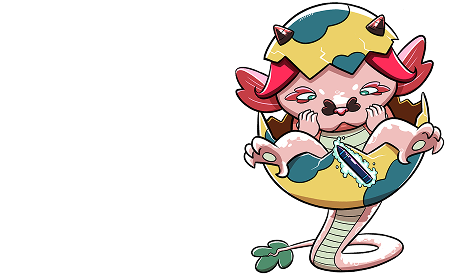
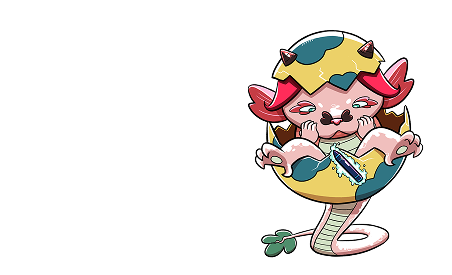
feat: update terminology from "points" to "Star" across multiple components for consistency

Changed region(s): [[0.4956, 0.0, 0.9912, 1.0]]

diff --git a/app/tien-tri-tai-ba/components/community-prize.tsx b/app/tien-tri-tai-ba/components/community-prize.tsx
@@ -9,16 +9,15 @@ import Kado from '@/assets/teams/kado.png'
 import Milyhaisan from '@/assets/teams/milyhaisan.png'
 import Sixpieces from '@/assets/teams/sixpieces.png'
 import Taomong from '@/assets/teams/taomong.png'
-import Todoiloinguocdong from '@/assets/teams/todoiloinguocdong.png'
+import { useSignInDialog } from '@/components/signin-dialog'
 import { Dialog, DialogContent, DialogFooter, DialogHeader, DialogTitle } from '@/components/ui/dialog'
 import { Input } from '@/components/ui/input'
+import { useLoggedIn } from '@/hooks/useLoggedIn'
 import { getTeamPoints, giveTeamPoints } from '@/services/tttb'
 import Image from 'next/image'
 import { useEffect, useState } from 'react'
 import { toast } from 'sonner'
 import ModalBorder from './modal-border'
-import { useLoggedIn } from '@/hooks/useLoggedIn'
-import { useSignInDialog } from '@/components/signin-dialog'
 const teams = [
   {
     id: 'milyhaisan',
@@ -92,16 +91,16 @@ const teams = [
     points: 0,
     avatar: Aids,
   },
-  {
-    id: 'todoiloinguocdong',
-    name: 'Tổ đội lội ngược dòng',
-    members:
-      'Duy torao, Emilynne, Lucifer Bù Nhìn, Hoàng Ngọc Lii, Nguyễn Hữu Thịnh, Nguyễn Mido, Rượu siêu yếu, Xuan Thuy, TRB art',
-    advisor: 'PunkgaMe x Du Bút',
-    topic: 'Để Nó Trôi Đi',
-    points: 0,
-    avatar: Todoiloinguocdong,
-  },
+  // {
+  //   id: 'todoiloinguocdong',
+  //   name: 'Tổ đội lội ngược dòng',
+  //   members:
+  //     'Duy torao, Emilynne, Lucifer Bù Nhìn, Hoàng Ngọc Lii, Nguyễn Hữu Thịnh, Nguyễn Mido, Rượu siêu yếu, Xuan Thuy, TRB art',
+  //   advisor: 'PunkgaMe x Du Bút',
+  //   topic: 'Để Nó Trôi Đi',
+  //   points: 0,
+  //   avatar: Todoiloinguocdong,
+  // },
 ]
 const CommunityPrize = ({ refreshUserRankData }: { refreshUserRankData: () => void }) => {
   const [displayTeams, setDisplayTeams] = useState(teams)
@@ -129,7 +128,7 @@ const CommunityPrize = ({ refreshUserRankData }: { refreshUserRankData: () => vo
   return (
     <div className='p-4 rounded-sm'>
       <div className='relative'>
-        <h2 className='text-[32px] font-paytone-one font-bold mb-4'>Giải Cộng đồng</h2>
+        <h2 className='text-[32px] font-paytone-one font-bold mb-4'>Cổ vũ nhóm bạn yêu thích</h2>
         <div className='relative bg-[#345EB0] rounded-md'>
           <div
             className='rounded-lg mb-4 absolute  w-full h-full'
@@ -141,14 +140,14 @@ const CommunityPrize = ({ refreshUserRankData }: { refreshUserRankData: () => vo
               opacity: 0.1,
             }}></div>
           <div className='p-4'>
-            <div className='text-sm font-semibold text-[#D9D9DE]'>07/12/2025 - 01/01/2026</div>
+            <div className='text-sm font-semibold text-[#D9D9DE]'>11/01/2026 - 15/03/2026</div>
             <div className='text-2xl font-bold text-[#F5BC41] font-paytone-one pt-1'>
               Team Top 01 <span className='text-[#D9D9DE]'>nhận</span>
             </div>
-            <div className='text-[42px] font-bold text-[#F5BC41] font-paytone-one'>1.000.000vnd</div>
+            <div className='text-[42px] font-bold text-[#F5BC41] font-paytone-one'>5.000.000vnđ</div>
           </div>
         </div>
-        <div className='w-30.5 h-32 md:w-44.25 md:h-47 absolute right-0 bottom-0 md:top-0'>
+        <div className='w-30.5 h-32 md:w-30 md:h-auto absolute right-0 bottom-0 md:-top-5 md:-right-5'>
           <Image src={Advisor1Mascot} alt='Prize illustration' layout='fill' objectFit='contain' />
         </div>
       </div>
@@ -231,7 +230,7 @@ const Group = (
           </div>
         </div>
         <div className='flex items-center'>
-          <p className='mr-4 font-bold'>{props.points} P</p>
+          <p className='mr-4 font-bold'>{props.points} Star</p>
         </div>
         <div className='w-full md:w-auto pt-4 md:pt-0'>
           <button
@@ -272,7 +271,7 @@ const Group = (
 
                 <div>
                   <h4 className='font-bold text-lg mb-2'>Điểm</h4>
-                  <p className='text-xl font-bold text-[#345EB0]'>{props.points} P</p>
+                  <p className='text-xl font-bold text-[#345EB0]'>{props.points} Star</p>
                 </div>
               </div>
 
@@ -290,17 +289,17 @@ const Group = (
       <Dialog open={isGiveDialogOpen} onOpenChange={setIsGiveDialogOpen}>
         <DialogContent>
           <DialogHeader>
-            <DialogTitle>Tặng điểm cho {props.name}</DialogTitle>
+            <DialogTitle>Tặng Star cho {props.name}</DialogTitle>
           </DialogHeader>
           <div className='space-y-4 py-4'>
             <div>
-              <label className='block text-sm font-medium mb-2'>Số điểm muốn tặng</label>
+              <label className='block text-sm font-medium mb-2'>Số Star muốn tặng</label>
               <Input
                 type='number'
                 min='1'
                 value={pointsAmount}
                 onChange={(e) => setPointsAmount(e.target.value)}
-                placeholder='Nhập số điểm'
+                placeholder='Nhập số Star'
                 className='w-full'
               />
             </div>
@@ -324,11 +323,11 @@ const Group = (
       <Dialog open={isConfirmDialogOpen} onOpenChange={setIsConfirmDialogOpen}>
         <DialogContent>
           <DialogHeader>
-            <DialogTitle>Xác nhận tặng điểm</DialogTitle>
+            <DialogTitle>Xác nhận tặng Star</DialogTitle>
           </DialogHeader>
           <div className='space-y-4 py-4'>
             <p>
-              Bạn sắp tặng <span className='font-bold text-[#345EB0]'>{pointsAmount} điểm</span> cho nhóm{' '}
+              Bạn sắp tặng <span className='font-bold text-[#345EB0]'>{pointsAmount} Star</span> cho nhóm{' '}
               <span className='font-bold'>{props.name}</span>
             </p>
             <p className='text-sm text-gray-600'>Vui lòng xác nhận hành động này.</p>

diff --git a/app/tien-tri-tai-ba/components/header.tsx b/app/tien-tri-tai-ba/components/header.tsx
@@ -1,19 +1,18 @@
 'use client'
 import Logo from '@/assets/Logo.svg'
 import { useSignInDialog } from '@/components/signin-dialog'
+import { Avatar } from '@/components/ui/avatar'
+import { Button } from '@/components/ui/button'
+import { DropdownMenu, DropdownMenuContent, DropdownMenuTrigger } from '@/components/ui/dropdown-menu'
+import { useLoggedIn } from '@/hooks/useLoggedIn'
 import { useUserStore } from '@/stores/user-store'
+import { LogOut } from 'lucide-react'
 import { Inter } from 'next/font/google'
 import Image from 'next/image'
 import Link from 'next/link'
 import { useState } from 'react'
-import { useAccount, useBalance, useDisconnect } from 'wagmi'
 import { useIsClient, useWindowSize } from 'usehooks-ts'
-import { useLoggedIn } from '@/hooks/useLoggedIn'
-import { DropdownMenu, DropdownMenuContent, DropdownMenuTrigger } from '@/components/ui/dropdown-menu'
-import { cn, formatBalance } from '@/lib/utils'
-import { ArrowUpRight, LogOut, PlusIcon, SquareUser, Star } from 'lucide-react'
-import { Button } from '@/components/ui/button'
-import { Avatar } from '@/components/ui/avatar'
+import { useAccount, useBalance, useDisconnect } from 'wagmi'
 
 const inter = Inter({ subsets: ['latin'] })
 
@@ -74,30 +73,8 @@ export default function Header() {
                   <div className='divide-y divide-Border-border-secondary w-xs'>
                     <div className='p-4 space-y-2'>
                       <div className='text-Text-Brand-text-brand-primary font-bold text-sm'>{user.nickname}</div>
-                      <div className='flex w-full justify-between items-center text-sm font-medium'>
-                        <div className=''>
-                          {formatBalance(data?.value || 0, data?.decimals)} {data?.symbol}
-                        </div>
-                        <div className='text-Text-Link-text-link-primary flex items-center gap-0.5 cursor-pointer'>
-                          Activity <ArrowUpRight className='w-4 h-4' />
-                        </div>
-                      </div>
-                      {isConnected && (
-                        <div className='text-xs text-Text-Default-text-secondary'>
-                          Connected chain: <strong className='text-Text-Default-text-primary'>{chain?.name}</strong>
-                        </div>
-                      )}
                     </div>
-                    <div className='text-sm font-medium'>
-                      <Link href='https://punkga.me/subscribed-manga' className='p-4 flex items-center gap-3.5'>
-                        <Star className='size-4' fill='currentColor' />
-                        Subscribed Manga
-                      </Link>
-                      <Link href='https://punkga.me/my-profile' className='p-4 flex items-center gap-3.5'>
-                        <SquareUser className='size-4' />
-                        My Profile
-                      </Link>
-                    </div>
+
                     <div className='text-sm font-medium'>
                       <div className='p-4 flex items-center gap-3.5 cursor-pointer' onClick={logoutHandler}>
                         <LogOut className='size-4' />

diff --git a/app/tien-tri-tai-ba/components/reward-redemption.tsx b/app/tien-tri-tai-ba/components/reward-redemption.tsx
@@ -7,35 +7,35 @@ import RewardImage5 from '@/assets/rewards/r5.png'
 const RewardRedemption = () => {
   const rewards = [
     {
-      name: 'Áo thun Punkgame',
+      name: 'Áo thun PunkgaMe limited',
       points: '???',
       image: RewardImage1,
       preOrder: true,
       redeemable: false,
     },
     {
-      name: 'Merch nhỏ',
+      name: 'Merchandise',
       points: '???',
       image: RewardImage2,
       preOrder: true,
       redeemable: false,
     },
     {
-      name: 'Merch to',
+      name: 'Limited Edition Merchandise',
       points: '???',
       image: RewardImage3,
       preOrder: true,
       redeemable: false,
     },
     {
-      name: 'Mô hình',
+      name: 'Mô hình Cybero-01',
       points: '???',
       image: RewardImage4,
       preOrder: true,
       redeemable: false,
     },
     {
-      name: 'Truyện',
+      name: 'Tuyển tập Wow Yourself 2 limited',
       points: '???',
       image: RewardImage5,
       preOrder: true,
@@ -45,10 +45,10 @@ const RewardRedemption = () => {
 
   return (
     <div className='bg-[#D73930] text-white p-4 rounded-sm'>
-      <h2 className='text-3xl font-paytone-one font-bold mb-2 text-[#F5BC41]'>Đổi Điểm Thưởng</h2>
-      <p className='text-sm mb-4 text-[#D9D9DE] font-semibold'>07/12/2025 - 01/01/2026</p>
+      <h2 className='text-3xl font-paytone-one font-bold mb-2 text-[#F5BC41]'>Đổi Star</h2>
+      <p className='text-sm mb-4 text-[#D9D9DE] font-semibold'>11/01/2026 - 15/03/2026</p>
       <p className='mb-8 text-[#D9D9DE] font-semibold'>
-        Point sau vòng Tiên tri có thể dùng để đổi các phần thưởng dưới đây
+        Star sau vòng Tiên tri có thể dùng để đổi các phần thưởng dưới đây
       </p>
       <div className='grid grid-cols-2 md:grid-cols-5 gap-4'>
         {rewards.map((reward, index) => (
@@ -66,7 +66,7 @@ const RewardRedemption = () => {
               </div>
             </div>
             <div className='py-4'>
-              <h3 className='font-semibold text-white'>{reward.name}</h3>
+              <h3 className='font-semibold text-white h-12'>{reward.name}</h3>
               <button
                 className={`w-full mt-4 py-2 rounded-sm font-paytone-one text-xl font-semibold ${
                   reward.redeemable ? 'bg-[#F5BC41] text-black' : 'bg-[#BCBCBC] text-[#0A0A0B] cursor-not-allowed'

diff --git a/app/components/section-4.tsx b/app/components/section-4.tsx
@@ -18,6 +18,7 @@ import Advisor6Mascot from '@/assets/advisors/advisor_6_mascot.png'
 import Advisor7Mascot from '@/assets/advisors/advisor_7_mascot.png'
 import Advisor8Mascot from '@/assets/advisors/advisor_8_mascot.png'
 import { useState, useEffect } from 'react'
+import { cn } from '@/lib/utils'
 
 const advisors = [
   {
@@ -122,7 +123,11 @@ export default function Section4() {
               key={`mascot-${index}`}
               src={shuffledAdvisors[index].mascot}
               alt={`${shuffledAdvisors[index].name} Mascot`}
-              className='absolute bottom-0 right-0 translate-x-1/6 translate-y-1/4 w-full h-auto slide-from-right'
+              quality={100}
+              className={cn(
+                'absolute bottom-0 right-0 translate-x-1/6 translate-y-1/4 h-auto slide-from-right',
+                shuffledAdvisors[index].name == 'XiXu' ? 'w-auto max-w-none h-[80%]' : 'w-full'
+              )}
             />
           </div>
           <div className='flex flex-col justify-between relative'>

diff --git a/app/tien-tri-tai-ba/components/chart.tsx b/app/tien-tri-tai-ba/components/chart.tsx
@@ -99,7 +99,7 @@ export default function Chart() {
             type='number'
             domain={xAxisDomain}
             ticks={xAxisTicks}
-            label={{ value: 'XP', position: 'insideBottomRight', offset: -5 }}
+            label={{ value: 'Star', position: 'insideBottomRight', offset: -5 }}
           />
           <YAxis
             stroke='#323239'
@@ -122,7 +122,7 @@ export default function Chart() {
                 const data = payload[0].payload
                 return (
                   <div className='bg-white p-3 rounded-lg shadow-md'>
-                    <p className='font-bold text-lg'>{data.x} XP</p>
+                    <p className='font-bold text-lg'>{data.x} Star</p>
                     <p className='text-red-600 font-semibold'>Người tham gia : {data.y}</p>
                   </div>
                 )

diff --git a/app/tien-tri-tai-ba/page.tsx b/app/tien-tri-tai-ba/page.tsx
@@ -138,13 +138,12 @@ export default function Page() {
           <Image
             src={DecorImage19}
             alt='Decor Image 19'
-            className='absolute hidden md:block right-0 bottom-0 w-auto h-[110%]'
+            className='absolute hidden pointer-events-none md:block right-0 bottom-0 w-auto h-[130%]'
           />
           <div
             className='h-10 absolute bottom-0 left-0 right-0 scale-y-[-1] bg-repeat'
             style={{ backgroundImage: `url(${Divider.src})`, backgroundSize: 'auto 100%' }}></div>
           <div className='relative'>
-            <div className='w-25 h-25 rounded-full bg-[#FF9548]'></div>
             <h1 className='font-extrabold absolute top-0 left-7 font-paytone-one text-[50px] leading-none text-white'>
               Tiên tri
               <br />

diff --git a/app/tien-tri-tai-ba/components/guide-popup.tsx b/app/tien-tri-tai-ba/components/guide-popup.tsx
@@ -22,7 +22,7 @@ const GuidePopup = ({
     {
       title: 'Đăng nhập và điểm danh hằng ngày',
       description:
-        'Từ 21/12/2025 mọi người dùng đăng ký tài khoản trên pvn.ga.me đều có thể truy cập trang sự kiện này để điểm danh hằng ngày và nhận về Star point',
+        'Từ 11/01/2026 mọi người đăng ký tài khoản trên punkga.me đều có thể truy cập trang sự kiện này để điểm danh hằng ngày và nhận về Star point',
       buttonText: 'Đã hiểu',
       image: Advisor10Mascot,
     },
